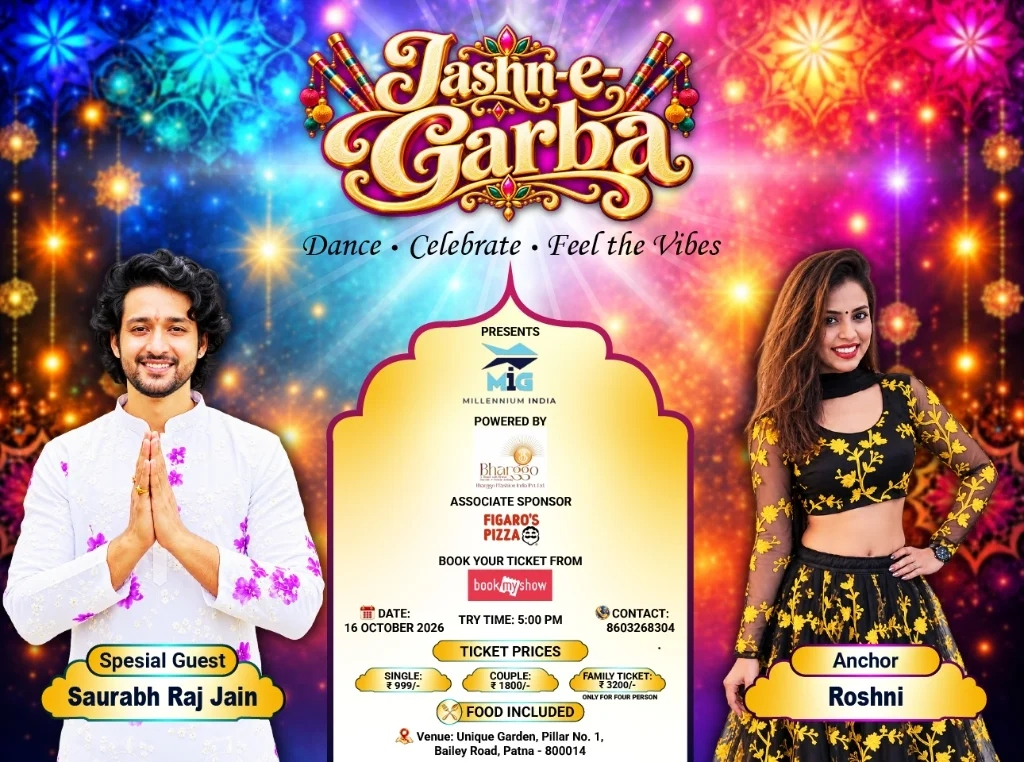
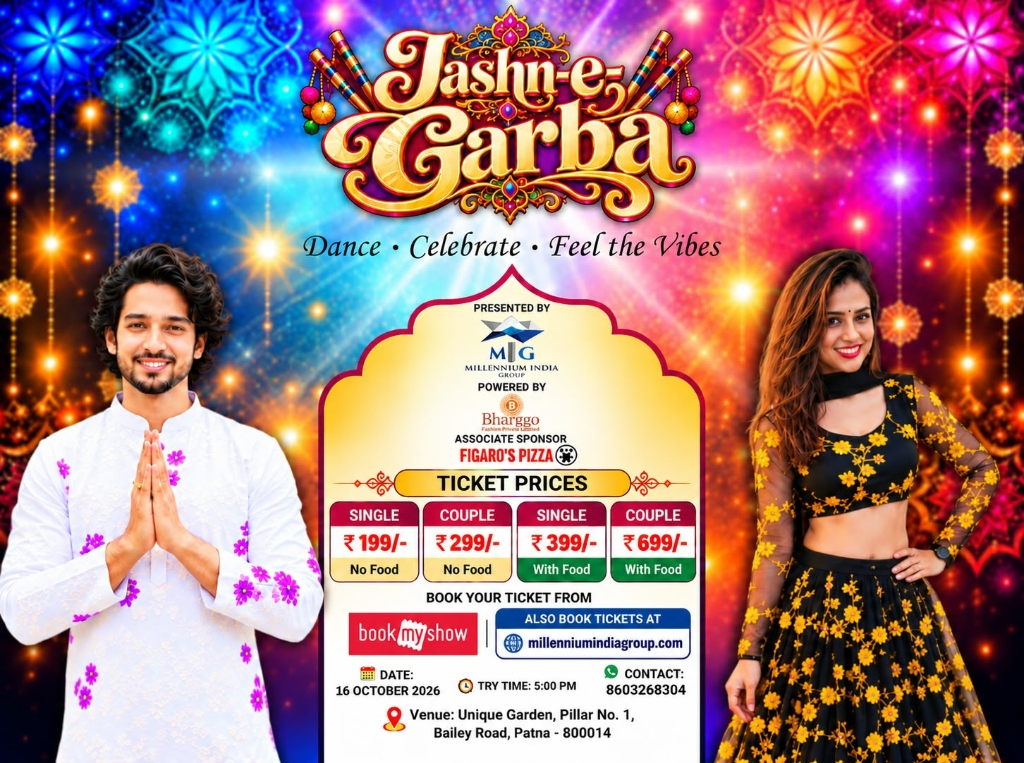
Update official poster to new version with 199/299/399/699 pricing and sync website pass prices

diff --git a/index.php b/index.php
@@ -49,7 +49,7 @@ include __DIR__ . '/includes/header.php';
         <!-- Immediate Action CTAs Under Top Video -->
         <div style="display: flex; justify-content: center; gap: 14px; flex-wrap: wrap; margin-top: 20px;">
             <a href="<?= BASE_URL ?>/booking.php?event_id=<?= $event['id'] ?? 1 ?>" class="btn btn-primary" style="font-size: 1.12rem; padding: 14px 34px; box-shadow: 0 6px 20px rgba(245,183,34,0.4); font-weight: 800;">
-                &#127915; Book Passes Now (From ₹999)
+                &#127915; Book Passes Now (From ₹199)
             </a>
             <a href="tel:7004665804" class="btn btn-secondary" style="font-size: 1rem; padding: 14px 24px; font-weight: 700;">
                 &#128222; Helpline: +91 7004665804
@@ -190,7 +190,7 @@ include __DIR__ . '/includes/header.php';
                     &#128241; Open UPI App
                 </a>
                 <a href="<?= BASE_URL ?>/booking.php?event_id=1&step=1" class="btn btn-primary" style="padding: 10px 22px; font-weight: 800; font-size: 0.92rem; border-radius: 8px;">
-                    &#127915; Book Passes (From ₹999)
+                    &#127915; Book Passes (From ₹199)
                 </a>
             </div>
         </div>
@@ -198,10 +198,10 @@ include __DIR__ . '/includes/header.php';
 
     <!-- 5. SELECT YOUR ENTRY CATEGORY (Single Stacked Vertical Cards Matching Client Screenshot) -->
     <div style="text-align: center; margin-bottom: 25px;">
-        <span style="color: var(--gold-accent); font-weight: 800; text-transform: uppercase; font-size: 0.82rem; letter-spacing: 1px;">Instant Booking &bull; Limited Slots</span>
+        <span style="color: var(--gold-accent); font-weight: 800; text-transform: uppercase; font-size: 0.82rem; letter-spacing: 1px;">Official Poster Pricing &bull; Instant Passes</span>
         <h2 style="font-size: 2.1rem; font-weight: 900; color: #fff; margin-top: 4px;">Select Your Entry Category</h2>
         <p style="color: var(--text-muted); max-width: 600px; margin: 0 auto; font-size: 0.92rem;">
-            Secure your digital pass now. Delicious Food included with all passes!
+            Secure your digital pass now. Official pricing as shown on poster!
         </p>
     </div>
 

diff --git a/config/functions.php b/config/functions.php
@@ -309,6 +309,23 @@ function get_event($idOrSlug): ?array {
 function get_event_categories(int $eventId, bool $activeOnly = true): array {
     try {
         $db = getDB();
+
+        // Auto-sync ticket categories with official poster pricing (₹199, ₹299, ₹399, ₹699)
+        static $syncedPricing = false;
+        if (!$syncedPricing) {
+            $syncedPricing = true;
+            try {
+                $check = $db->query("SELECT MIN(price) AS min_p FROM ticket_categories WHERE event_id = 1");
+                $minP = (float)($check ? $check->fetchColumn() : 0);
+                if ($minP > 200 || $minP == 0) {
+                    $db->exec("UPDATE ticket_categories SET name = 'Single Pass (No Food)', price = 199.00, people_allowed = 1 WHERE id = 1");
+                    $db->exec("UPDATE ticket_categories SET name = 'Couple Pass (No Food)', price = 299.00, people_allowed = 2 WHERE id = 2");
+                    $db->exec("UPDATE ticket_categories SET name = 'Single Pass (With Food)', price = 399.00, people_allowed = 1 WHERE id = 3");
+                    $db->exec("UPDATE ticket_categories SET name = 'Couple Pass (With Food)', price = 699.00, people_allowed = 2 WHERE id = 4");
+                }
+            } catch (Throwable $e) {}
+        }
+
         $sql = "SELECT * FROM ticket_categories WHERE event_id = :event_id";
         if ($activeOnly) {
             $sql .= " AND status = 'active'";

diff --git a/includes/footer.php b/includes/footer.php
@@ -74,7 +74,7 @@
     <div class="mobile-sticky-book-bar">
         <div>
             <div style="font-size:0.75rem; color:#aaa; text-transform:uppercase;">Passes From</div>
-            <div style="font-size:1.25rem; font-weight:900; color:var(--gold-accent);">₹999 <span style="font-size:0.75rem; font-weight:normal; color:#cbd5e1;">(Food Included)</span></div>
+            <div style="font-size:1.25rem; font-weight:900; color:var(--gold-accent);">₹199</div>
         </div>
         <a href="<?= BASE_URL ?>/booking.php?event_id=1" class="btn btn-primary" style="padding:10px 24px; font-weight:800; font-size:1rem; border-radius:50px; box-shadow:0 4px 15px rgba(245,183,34,0.4);">
             &#127915; Book Now
